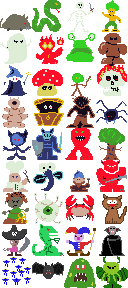
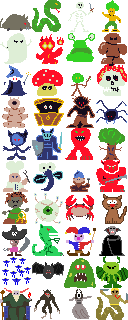
plenty of new stuff

diff --git a/doorsofdoom/src/main/java/com/github/msx80/doorsofdoom/model/Item.java b/doorsofdoom/src/main/java/com/github/msx80/doorsofdoom/model/Item.java
@@ -25,23 +25,28 @@ public enum Item {
 	Pants("Fancy Panties", 306, new String[] {"The latest in fashion."}, 5, Place.Legs, null, null, null),
 	Throusers("Throusers", 290, new String[] {"Sweet leather on", "your legs."}, 12, Place.Legs, null, null, null),
 	Greaves("Greaves", 331, new String[] {"Iron shins."}, 16, Place.Legs, null, null, null),
+	DuraniumChausses("Duranium Chausses", 349, new String[] {"Best leg apparel", "ever"}, 20, Place.Legs, null, null, null),
 	
 	// head
 	Helm("Helm", 309, new String[] {"Protect your", "brain cells, your", "most powerful", "weapon."}, 15, Place.Head, null, null, null),
+	DuraniumHelm("Duranium Helm", 351, new String[] {"Best helm ever."}, 18, Place.Head, null, null, null),
 	Cap("Cap", 301, new String[] {"Keep your scalp", "warm and safe."}, 8, Place.Head, null, null, null),
 	EyePatch("Eye Patch", 332, new String[] {"Not sure it", "protects that", "much."}, 5, Place.Head, null, null, null),
 	Tricorn("Tricorn", 333, new String[] {"Classic pirate", "headware."}, 13, Place.Head, null, null, null),
+	Crown("Crown", 321, new String[] {"The Crown was only", "heard of in the", "wildest of legends.", "", DoorsOfDoom.CROWN_POINT+" Points each."}, 12, Place.Head, null, null, null),
 
 	// offhand
 	Buckler("Buckler", 308, new String[] {"Actually the", "bottom of a","beer barrel."}, 20, Place.Right, null, null, null),
 	Stockade("Stockade", 283, new String[] {"Unorthodox but", "effective."}, 15, Place.Right, null, null, null),
 	Shield("Shield", 305, new String[] {"Heavy metal!"},30,Place.Right,null,null,null),
+	DuraniumShield("Duranium Shield", 348, new String[] {"Best shield ever."},33,Place.Right,null,null,null),
 	CrabShell("Crab Shell", 341, new String[] {"The shell of a", "deceased crab.", "Gross."},10,Place.Right,null,null,null),
 	
 	// body
 	Shirt("Shirt", 295, new String[] {"The very basic in", "combat protection."}, 8, Place.Body, null, null, null),
 	Jacket("Jacket", 291, new String[] {"Fine leather", "jacket, purchased", "from a pirate dude."}, 15, Place.Body, null, null, null),
 	Armour("Plate Armour", 289, new String[] {"Now we're talking.", "Plate is great."}, 20, Place.Body, null, null, null),
+	DuraniumArmour("Duranium Armour", 350, new String[] {"Best armour ever"}, 23, Place.Body, null, null, null),
 	
 	Key("Key", 319, new String[] {"Opens doors.", "Be careful not to", "run out of them."}, 0, null, null, null, null),
 	Cheese("Cheese", 317, new String[] {"Stinky and delicious.", "", "Heal 4 hp."}, 0, null, null, Usable.of("Eat", (i, g) -> foodHealing(i, g, 4)), null),
@@ -52,7 +57,6 @@ public enum Item {
 	Phlogiston("Phlogiston", 302, new String[] {"The heart and", "soul of fire."}, 0, null, null, null, null),
 	Ectoplasm("Ectoplasm", 298, new String[] {"Gooey and powerful."}, 0, null, null, null, null),
 	Diamond("Diamond", 303, new String[] {"So so precious.", "", "100 Points each."}, 0, null, null, null, null),
-	Crown("Crown", 321, new String[] {"The Crown was only", "heard of in the", "wildest of legends.", "", "1000 Points each."}, 0, null, null, null, null),
 	Wisdom("Ancient Wisdom", 338, new String[] {"Some things are", "better left", "unlearned..."}, 0, null, null, null, Usable.of("Read", wisdom())),
 	
 	Map("Dungeon Map", 343, new String[] {"The map of the", "dungeon!", "It shows a path", "to the exit!", "", "Use it to complete", "the game."}, 0, null, null, Usable.of("Exit", (a, b) -> exitDungeon(a, b)), null),
@@ -84,7 +88,9 @@ public enum Item {
 	Bomb("Bomb", 312, new String[] {"Kaboom!", "", "Deals 40 damage."}, 0, null, null, null, Usable.of("Throw", bomb())),
 	
 	Sprite("Sprite", 335, new String[] {"A sprite you", "befriended.", "", "Deals 15 damages."}, 0, null, null, null, Usable.of("Unleash", sprite())),
-	Slime("Slime", 340, new String[] {"Smelly", "and sticky.", "A bit like glue."}, 0, null, null, null, null)
+	Slime("Slime", 340, new String[] {"Smelly", "and sticky.", "A bit like glue."}, 0, null, null, null, null),
+	Fur("Fur", 346, new String[] {"From the hide", "of some wild beast."}, 0, null, null, null, null),
+	Duranium("Duranium", 347, new String[] {"A magical material", "incredibly strong."}, 0, null, null, null, null),
 	;
 	
 	public final String name;

diff --git a/doorsofdoom/src/main/java/com/github/msx80/doorsofdoom/model/MonsterDef.java b/doorsofdoom/src/main/java/com/github/msx80/doorsofdoom/model/MonsterDef.java
@@ -83,6 +83,7 @@ public enum MonsterDef {
 		range(13, 37),
 		range(1, 2),
 		Loot.of(5, Item.MediumPotion, range(1, 1)),
+		Loot.of(3, Item.Slime, range(1, 2)),
 		Loot.of(4, Item.Blood, range(3, 6))
 	), 
 	MYCONID(
@@ -260,7 +261,7 @@ public enum MonsterDef {
 		range(5, 40),
 		range(55, 85),
 		range(30, 50),
-		Loot.of(1, Item.Ectoplasm, range(4, 8)),
+		//Loot.of(1, Item.Ectoplasm, range(4, 8)),
 		Loot.of(2, Item.Sprite, range(2, 3)),
 		Loot.of(1, Item.Rejuvenant, range(2, 4))
 	),
@@ -268,9 +269,9 @@ public enum MonsterDef {
 		"TARDIGRADE", -13,
 		range(80, 100),
 		range(15, 25),
-		range(59, 1000),
+		range(59, 109),
 		range(3, 6),
-		Loot.of(2, Item.Spinach, range(1, 3)),
+		Loot.of(3, Item.Spinach, range(1, 3)),
 		Loot.of(2, Item.Leather, range(6, 8))
 	),
 	MAGE(
@@ -308,9 +309,9 @@ public enum MonsterDef {
 		range(30, 50),
 		range(75, 1000),
 		range(30, 50),
-		Loot.of(1, Item.Key, range(2, 3)),
-		Loot.of(1, Item.Diamond, range(1, 1)),
-		Loot.of(1, Item.Greaves, range(1, 1))
+		Loot.of(2, Item.Key, range(2, 3)),
+		Loot.of(2, Item.Phlogiston, range(2, 4)),
+		Loot.of(3, Item.Greaves, range(1, 1))
 	),
 	DRAGON(
 		"DRAGON", -30,
@@ -324,20 +325,57 @@ public enum MonsterDef {
 	),
 	DEVIL(
 		"DEVIL", -24,
-		range(200, 200),
-		range(20, 300),
+		range(200, 200), // hp
+		range(40, 200),  // attack
 		range(100, 1000),
 		range(30, 50),
 		Loot.of(1, Item.Crown, range(1, 1))
 	),
+	WEREWOLF(
+			"WEREWOLF", -38,
+			range(60, 80),
+			range(60, 130),
+			range(110, 1000),
+			range(5, 20),
+			Loot.of(2, Item.Greaves, range(1, 1)),
+			Loot.of(3, Item.Fur, range(2, 4))
+		),		
+	BANSHEE(
+			"BANSHEE", -39,
+			range(40, 60),
+			range(150, 250),
+			range(110, 1000),
+			range(10, 20),
+			Loot.of(1, Item.Ectoplasm, range(3, 6)),
+			Loot.of(1, Item.Rejuvenant, range(2, 4))
+		),	
+	NAGA(
+			"NAGA", -40,
+			range(70, 120),
+			range(60, 140),
+			range(120, 1000),
+			range(10, 20),
+			Loot.of(1, Item.Venom, range(3, 6)),
+			Loot.of(1, Item.BigPotion, range(1, 1))
+		),	
+	DUNGEON_BOSS(
+			"DUNGEON BOSS", -37,
+			range(400, 400),
+			range(100, 300),
+			range(150, 150),
+			range(100, 100),
+			true, // unique: appears a single time at specific level.
+			Loot.of(1, Item.Map, range(1, 1))
+		),
 	ANCIENT(
-		"ANCIENT", -36,
-		range(400, 400),
-		range(100, 1000),
-		range(200, 1000),
-		range(30, 50),
-		Loot.of(1, Item.Wisdom, range(1, 1))
-	),
+			"ANCIENT", -36,
+			range(500, 600),
+			range(300, 500),
+			range(160, 1000),
+			range(20, 50),
+			Loot.of(1, Item.Wisdom, range(1, 1))
+		),	
+
 	;
 	
 	public String name;

diff --git a/doorsofdoom/src/main/java/com/github/msx80/doorsofdoom/DoorsOfDoom.java b/doorsofdoom/src/main/java/com/github/msx80/doorsofdoom/DoorsOfDoom.java
@@ -44,6 +44,7 @@ public class DoorsOfDoom implements Game, GameInterface {
 	private static final int MADNESS_DAMAGE = 4;
 	public static final int WISDOM_DAMAGE = 50;
 	public static final int EXIT_BONUS = 5000;
+	public static final int CROWN_POINT = 200;
 	
 	public final int BUTTONS_X = 167; // 8 * 12 + 3;
 	public final int STATS_X = 97; // 8 * 12 + 3;
@@ -132,17 +133,25 @@ public class DoorsOfDoom implements Game, GameInterface {
 	}
 	
 	private void flee() {
-		doSound(14, 1f, 1f);
-		confirm("Sure?", () -> {
-			doSound(16, 1f, 1f);
-			log.add(15, "You flee from ", 5, run.monster.type.name, 15, "!");
-			log.add(15, "You earned yourself a ", 14, Item.CowardToken.name, 15, "!");
-			run.pg.inventoryAdd(Item.CowardToken, 1);
-			enterStep(OUTDOOR);
-		}, () -> {
+		if(run.monster.type.unique)
+		{
 			doSound(6, 1f, 1f);
-			log.add(15, "You keep on fighting.");
-		});
+			log.add(6, "You cannot flee from this monster!!");
+		}
+		else
+		{
+			doSound(14, 1f, 1f);
+			confirm("Sure?", () -> {
+				doSound(16, 1f, 1f);
+				log.add(15, "You flee from ", 5, run.monster.type.name, 15, "!");
+				log.add(15, "You earned yourself a ", 14, Item.CowardToken.name, 15, "!");
+				run.pg.inventoryAdd(Item.CowardToken, 1);
+				enterStep(OUTDOOR);
+			}, () -> {
+				doSound(6, 1f, 1f);
+				log.add(15, "You keep on fighting.");
+			});
+		}
 	}
 	
 	private void attacksound() {
@@ -578,6 +587,7 @@ public class DoorsOfDoom implements Game, GameInterface {
 	}
 	
 	private Monster chooseMonster() {
+		if(true) return new Monster(MonsterDef.DUNGEON_BOSS);
 		List<MonsterDef> eligibles = Stream.of(MonsterDef.values()).filter(m -> m.levels.contains(run.level)).collect(Collectors.toList());
 		
 		List<MonsterDef> uniques = eligibles.stream().filter(e -> e.unique).collect(Collectors.toList());

diff --git a/doorsofdoom/src/main/java/com/github/msx80/doorsofdoom/model/Craft.java b/doorsofdoom/src/main/java/com/github/msx80/doorsofdoom/model/Craft.java
@@ -59,7 +59,13 @@ public class Craft {
 		
 		Craft.of(Item.Hamburger, Item.Bread, 1, Item.Tomato, 1, Item.Cheese, 1),
 		Craft.of(Item.Bomb, Item.Phlogiston, 2, Item.Ectoplasm, 3),
-		Craft.of(Item.BarrierPotion, Item.Ectoplasm, 1, Item.Venom, 1, Item.Leather, 1)
+		Craft.of(Item.BarrierPotion, Item.Ectoplasm, 1, Item.Venom, 1, Item.Leather, 1),
+		Craft.of(Item.Duranium, Item.Fur, 1, Item.Slime, 1, Item.Phlogiston, 1),
+		
+		Craft.of(Item.DuraniumHelm, Item.Duranium, 1, Item.Helm, 1),
+		Craft.of(Item.DuraniumArmour, Item.Duranium, 2, Item.Armour, 1),
+		Craft.of(Item.DuraniumShield, Item.Duranium, 2, Item.Shield, 1),
+		Craft.of(Item.DuraniumChausses, Item.Duranium, 1, Item.Greaves, 1)
 	);
 
 	public Craft(Item output, Map<Item, Integer> ingredients) {

diff --git a/doorsofdoom/src/main/java/com/github/msx80/doorsofdoom/model/Run.java b/doorsofdoom/src/main/java/com/github/msx80/doorsofdoom/model/Run.java
@@ -117,7 +117,7 @@ public class Run {
 	public long score() {
 		return level * 10
 			+ (pg.getInvCount(Item.Diamond) * 100)
-			+ (pg.getInvCount(Item.Crown) * 1000)
+			+ (pg.getInvCount(Item.Crown) * DoorsOfDoom.CROWN_POINT)
 			+ (pg.getInvCount(Item.CowardToken) * -15)
 			+ (exited ? DoorsOfDoom.EXIT_BONUS : 0);
 	}
